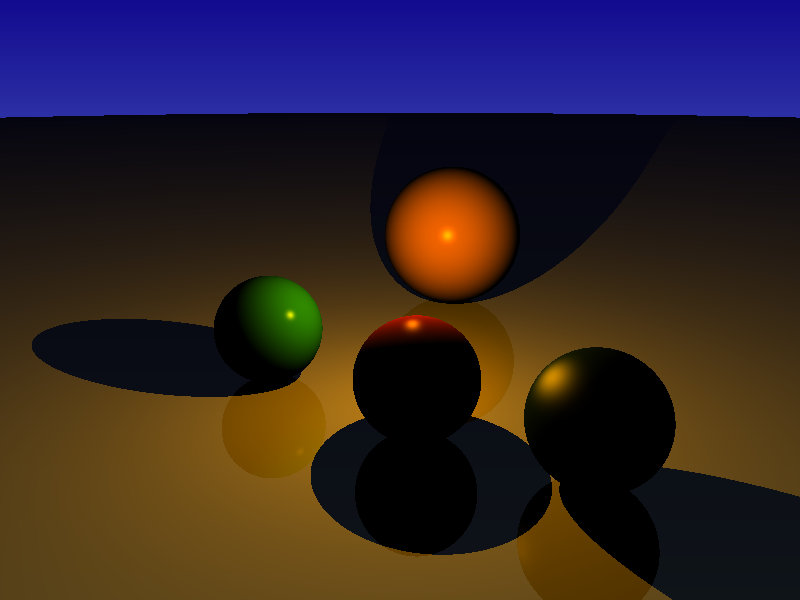
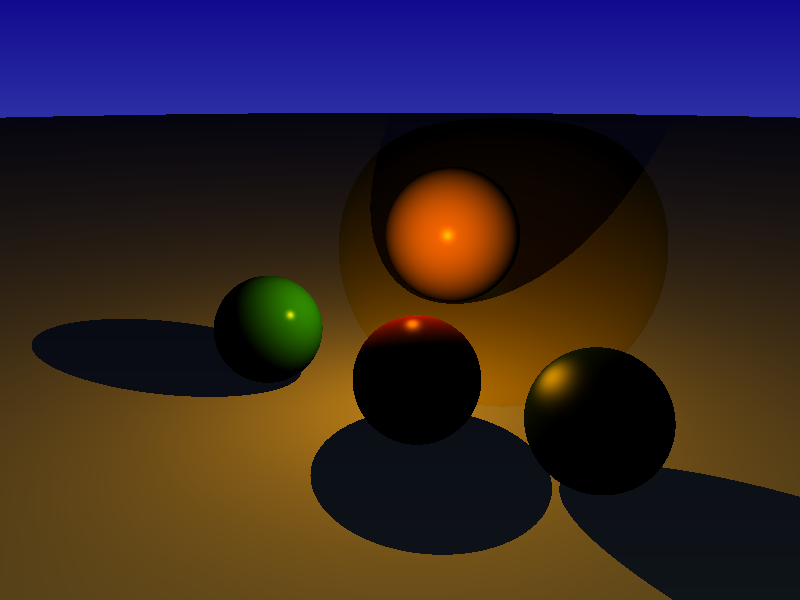
Starting to work...

Changed region(s): [[0.6562, 0.93, 0.8125, 1.0], [0.5938, 0.51, 0.625, 0.54]]

diff --git a/include/integrator.hpp b/include/integrator.hpp
@@ -101,118 +101,197 @@ public:
         Surfel sf;
 
         auto obj_list_ = scene->obj_list;
-        // std::cout << "----------\n";
-//        if (bvh->hit(ray, 0, MAXFLOAT, obj_list_))
+        std::shared_ptr<Surfel> surfel = std::make_shared<Surfel>();
+
+        if (!bvh->hit(ray, 0, MAXFLOAT, surfel))
         {
-        
-            for (int k = 0; k < obj_list_.size(); k++)
-            {
-
-                // std::cout << "SAIDA: " << std::endl;
-                // obj_list__[k]->printCenter();
-                if (obj_list_[k]->intersect(ray, &sf)) //obj_list__[k]->intersect(ray, &sf))
-                {
-
-                    Vec c;
-                    Vec wi;
-                    BlinnMaterial *bm = dynamic_cast<BlinnMaterial *>(sf.primitive->get_material().get());
-                    Vec n = normalize(sf.n);
-                    for (int i = 0; i < lights.size(); i++)
-                    {
-
-                        Vec l = lights[i]->sample_Li(sf, ray.getOrigin(), &wi);
-
-                        Ray shadow_ray;
-                        if (lights[i]->type == "directional")
-                        {
-                            shadow_ray = Ray(sf.p, l);
-                        }
-                        else
-                        {
-                            float dis = distance(sf.p, lights[i]->from);
-                            shadow_ray = Ray(sf.p, l, 0.0, dis);
-
-                            Vec d_ = sf.p - lights[i]->from;
-                        }
-
-                        bool hittou = false;
-
-                        for (int z = 0; z < obj_list_.size(); z++)
-                        {
-                            if (z != k)
-                            {
-                                hittou = obj_list_[z]->intersect_p(shadow_ray);
-                            }
-                            if (hittou)
-                            {
-                                break;
-                            }
-                        }
-
-                        if (!hittou)
-                        {
-                            float cosTheta = cosAnguloVetores(sf.n, l);
-                            // if (cosTheta < 0)
-                            // {
-                            // std::cout << cosTheta << std::endl;
-                            // return Vec(0,0,0);
-                            // }
-                            Vec v = ray.getOrigin() - sf.p;
-                            v = normalize(v);
-
-                            Vec h = (v + l) / (magnitude(v + l)); // * magnitude(dir_)));
-
-                            c = c + (bm->kd() * wi * std::max(0.f, dot(n, l))) + (bm->ks() * wi * std::pow(std::max(0.f, dot(n, h)), bm->glossiness));
-                        }
-
-                        // if(cosTheta < 0){
-                        //     std::cout << cosTheta << std::endl;
-                        //     break;
-                        //     // return Vec(0.0, 0.0, 0.0);
-                        // }
-                        // float grau = cosTheta * (180 / M_PI);
-                        // std::cout << grau << std::endl;
-                        // if (grau >= 90.0 || grau <= -90.0)
-                        //     return Vec(0.0, 0.0, 0.0);
-                    }
-
-                    if (scene->ambient != nullptr)
-                    {
-                        Vec la = scene->ambient->l;
-                        color_ = c + (bm->ka() * la);
-                    }
-                    else
-                    {
-                        color_ = c;
-                    }
-
-                    if (depth < max_depth)
-                    {
-                        Ray reflected_ray = Ray(sf.p, ray.getDirection() - n * (2 * (dot(ray.getDirection(), n))));
-                        color_ = color_ + bm->km() * Li(reflected_ray, scene, bkg_color, depth + 1);
-                    }
-
-                    if (color_.v1 > 1.0)
-                    {
-                        color_.v1 = 1.0;
-                    }
-
-                    if (color_.v2 > 1.0)
-                    {
-                        color_.v2 = 1.0;
-                    }
-
-                    if (color_.v3 > 1.0)
-                    {
-                        color_.v3 = 1.0;
-                    }
-                }
-            }
-
             return color_;
         }
+        else
+        {
+            Vec c;
+            Vec wi;
+            BlinnMaterial *bm = dynamic_cast<BlinnMaterial *>(surfel->primitive->get_material().get());
+            Vec n = normalize(surfel->n);
+            for (int i = 0; i < lights.size(); i++)
+            {
+                Vec l = lights[i]->sample_Li(*surfel.get(), ray.getOrigin(), &wi);
+                Ray shadow_ray;
+                if (lights[i]->type == "directional")
+                {
+                    shadow_ray = Ray(surfel->p + Vec(0.0001, 0.0001, 0.0001, 0), l);
+                }
+                else
+                {
+                    float dis = distance(surfel->p, lights[i]->from);
+                    shadow_ray = Ray(surfel->p + Vec(0.0001, 0.0001, 0.0001, 0), l, 0.0, dis);
+                    Vec d_ = surfel->p - lights[i]->from;
+                }
+
+                bool hittou = false;
+
+                std::shared_ptr<Surfel> aux = std::make_shared<Surfel>();
+                hittou = bvh->hit(shadow_ray, 0.0, MAXFLOAT, aux);
+
+                if (!hittou)
+                {
+                    float cosTheta = cosAnguloVetores(surfel->n, l);
+
+                    Vec v = ray.getOrigin() - surfel->p;
+                    v = normalize(v);
+
+                    Vec h = (v + l) / (magnitude(v + l)); // * magnitude(dir_)));
+
+                    c = c + (bm->kd() * wi * std::max(0.f, dot(n, l))) + (bm->ks() * wi * std::pow(std::max(0.f, dot(n, h)), bm->glossiness));
+                }
+
+                if (scene->ambient != nullptr){
+                    Vec la = scene->ambient->l;
+                    color_ = c + (bm->ka() * la);
+                } else {
+                    color_ = c;
+                }
+
+                if (depth < max_depth) {
+                    Ray reflected_ray = Ray(sf.p, ray.getDirection() - n * (2 * (dot(ray.getDirection(), n))));
+                    color_ = color_ + bm->km() * Li(reflected_ray, scene, bkg_color, depth + 1);
+                }
+
+                if (color_.v1 > 1.0)
+                {
+                    color_.v1 = 1.0;
+                }
+
+                if (color_.v2 > 1.0)
+                {
+                    color_.v2 = 1.0;
+                }
+
+                if (color_.v3 > 1.0)
+                {
+                    color_.v3 = 1.0;
+                }
+            }
+        }
+
+        return color_;
     }
+
     virtual ~BlinnPhongIntegrator() = default;
-};
+}
+
+// std::cout << "----------\n";
+//        if (bvh->hit(ray, 0, MAXFLOAT, obj_list_))
+
+//     for (int k = 0; k < obj_list_.size(); k++)
+//     {
+
+//         // std::cout << "SAIDA: " << std::endl;
+//         // obj_list__[k]->printCenter();
+//         if (obj_list_[k]->intersect(ray, &sf)) //obj_list__[k]->intersect(ray, &sf))
+//         {
+
+//             Vec c;
+//             Vec wi;
+//             BlinnMaterial *bm = dynamic_cast<BlinnMaterial *>(sf.primitive->get_material().get());
+//             Vec n = normalize(sf.n);
+//             for (int i = 0; i < lights.size(); i++)
+//             {
+
+//                 Vec l = lights[i]->sample_Li(sf, ray.getOrigin(), &wi);
+
+//                 Ray shadow_ray;
+//                 if (lights[i]->type == "directional")
+//                 {
+//                     shadow_ray = Ray(sf.p, l);
+//                 }
+//                 else
+//                 {
+//                     float dis = distance(sf.p, lights[i]->from);
+//                     shadow_ray = Ray(sf.p, l, 0.0, dis);
+
+//                     Vec d_ = sf.p - lights[i]->from;
+//                 }
+
+//                 bool hittou = false;
+
+//                 for (int z = 0; z < obj_list_.size(); z++)
+//                 {
+//                     if (z != k)
+//                     {
+//                         hittou = obj_list_[z]->intersect_p(shadow_ray);
+//                     }
+//                     if (hittou)
+//                     {
+//                         break;
+//                     }
+//                 }
+
+//                 if (!hittou)
+//                 {
+//                     float cosTheta = cosAnguloVetores(sf.n, l);
+//                     // if (cosTheta < 0)
+//                     // {
+//                     // std::cout << cosTheta << std::endl;
+//                     // return Vec(0,0,0);
+//                     // }
+//                     Vec v = ray.getOrigin() - sf.p;
+//                     v = normalize(v);
+
+//                     Vec h = (v + l) / (magnitude(v + l)); // * magnitude(dir_)));
+
+//                     c = c + (bm->kd() * wi * std::max(0.f, dot(n, l))) + (bm->ks() * wi * std::pow(std::max(0.f, dot(n, h)), bm->glossiness));
+//                 }
+
+//                 // if(cosTheta < 0){
+//                 //     std::cout << cosTheta << std::endl;
+//                 //     break;
+//                 //     // return Vec(0.0, 0.0, 0.0);
+//                 // }
+//                 // float grau = cosTheta * (180 / M_PI);
+//                 // std::cout << grau << std::endl;
+//                 // if (grau >= 90.0 || grau <= -90.0)
+//                 //     return Vec(0.0, 0.0, 0.0);
+//             }
+
+//             if (scene->ambient != nullptr)
+//             {
+//                 Vec la = scene->ambient->l;
+//                 color_ = c + (bm->ka() * la);
+//             }
+//             else
+//             {
+//                 color_ = c;
+//             }
+
+//             if (depth < max_depth)
+//             {
+//                 Ray reflected_ray = Ray(sf.p, ray.getDirection() - n * (2 * (dot(ray.getDirection(), n))));
+//                 color_ = color_ + bm->km() * Li(reflected_ray, scene, bkg_color, depth + 1);
+//             }
+
+//             if (color_.v1 > 1.0)
+//             {
+//                 color_.v1 = 1.0;
+//             }
+
+//             if (color_.v2 > 1.0)
+//             {
+//                 color_.v2 = 1.0;
+//             }
+
+//             if (color_.v3 > 1.0)
+//             {
+//                 color_.v3 = 1.0;
+//             }
+//         }
+//     }
+
+//     return color_;
+// }
+
+// virtual ~BlinnPhongIntegrator() = default;
+// }
+;
 
 #endif

diff --git a/include/bvhaccel.hpp b/include/bvhaccel.hpp
@@ -10,16 +10,23 @@ public:
     BvhAccel() {}
 
     std::shared_ptr<BvhAccel> buildTree(const std::vector<std::shared_ptr<Bounds3>> &b, size_t start, size_t end);
-    bool hit(Ray &r, float t_min, float t_max, std::vector<std::shared_ptr<GeometricPrimitive>> &b)
+    bool hit(Ray &r, float t_min, float t_max, std::shared_ptr<Surfel> &surfels)
     {
         if (!box->intersect_p(r, &t_min, &t_max))
         {
             return false;
         }
+        
+        bool hit_left, hit_right;
+        if(left != nullptr)
+            hit_left = left->hit(r, t_min, t_max, surfels);
+
+        if(right != nullptr)
+            hit_right = right->hit(r, t_min, t_max, surfels);
 
         if(left == nullptr and right == nullptr){
-            if(box->geo->intersect_p(r)){
-                b.push_back(box->geo);
+            
+            if(box->geo->intersect(r, surfels.get())){
                 return true;
             } else {
                 return false;
@@ -27,13 +34,6 @@ public:
             // b.push_back(box->geo);
             // return true;
         }
-        
-        bool hit_left, hit_right;
-        if(left != nullptr)
-            hit_left = left->hit(r, t_min, t_max, b);
-
-        if(right != nullptr)
-            hit_right = right->hit(r, t_min, t_max, b);
 
         return hit_left || hit_right;
         

diff --git a/include/api.hpp b/include/api.hpp
@@ -385,7 +385,7 @@ void Api::render()
 
     //b.buildTree(bounds, 0, bounds.size(), 0.0001, MAXFLOAT);
 
-    //scene->bvh_ = a;
+    scene->bvh_ = a;
     // scene->bvh_node->printBVH(scene->bvh_node);
 
     for (int j = h - 1; j >= 0; j--)
